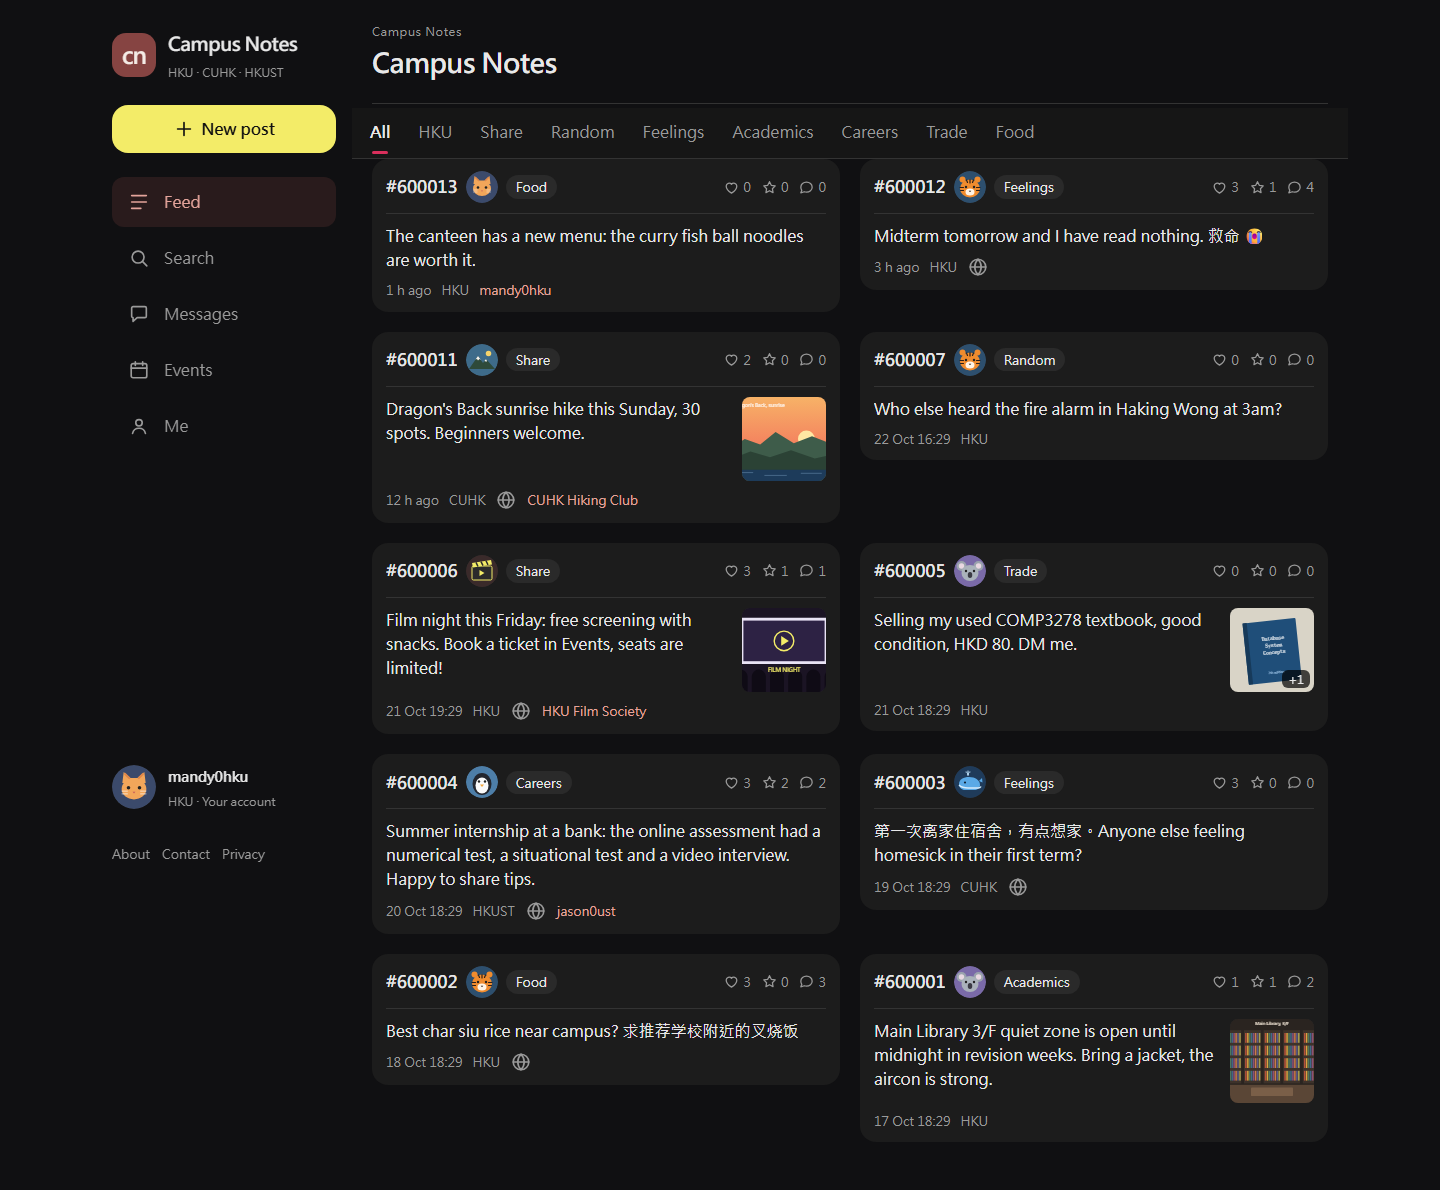
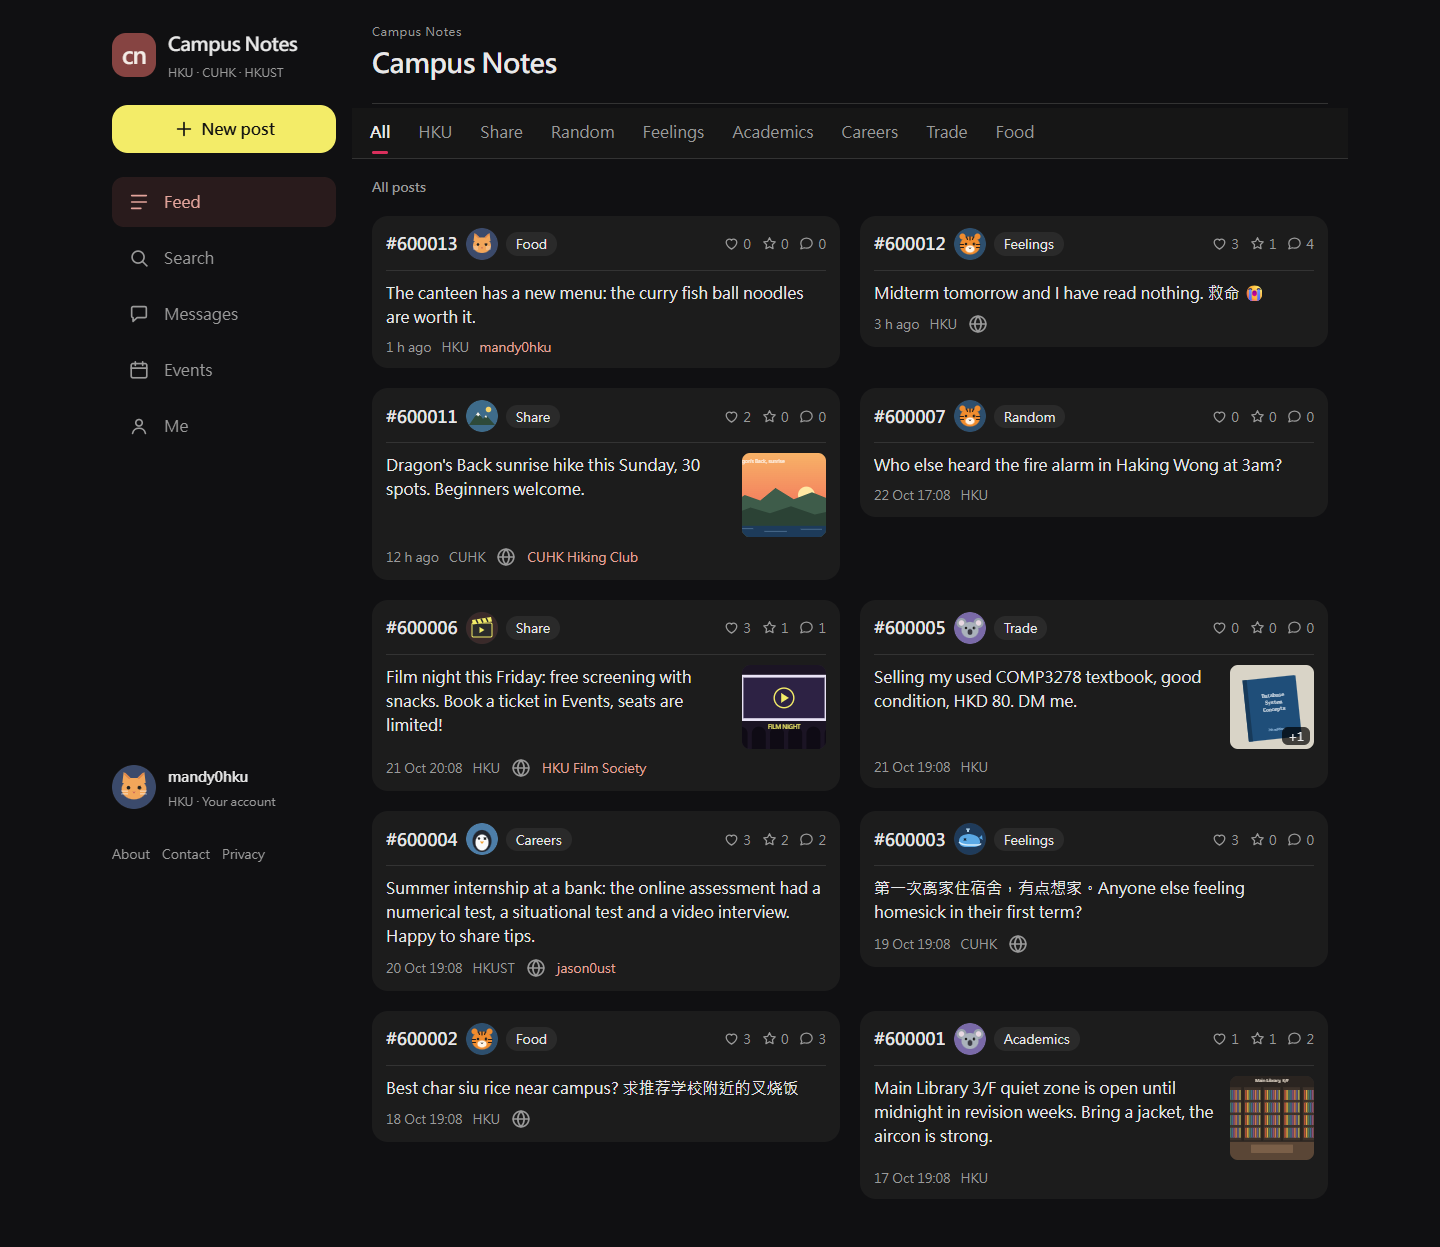
discover: keep active feed filters visible on phones (DS-1)
Refs Michael-wzl/CampusNote#2

diff --git a/modules/discover/tests/browser-checks.js b/modules/discover/tests/browser-checks.js
@@ -48,6 +48,19 @@ module.exports = async function checkFeedBrowser(browser, { baseURL, screenshotD
             assert.equal(await page.locator('.desktop-sidebar').isVisible(), width >= 1024);
             assert.equal(await page.locator('.tabbar').isVisible(), width < 1024);
             assert.equal(await page.locator('.discover-feed [aria-current=page]').count(), 1);
+            if (javaScriptEnabled) {
+              const selectedVisible = await page
+                .locator('.discover-feed [aria-current=page]')
+                .evaluate((a) => {
+                  const selected = a.getBoundingClientRect();
+                  const strip = a.parentElement.getBoundingClientRect();
+                  return selected.left >= strip.left - 1 && selected.right <= strip.right + 1;
+                });
+              assert.ok(
+                selectedVisible,
+                `${handle} ${width} ${path}: selected filter is off-screen`,
+              );
+            }
             if (path.endsWith('before=1')) {
               assert.equal(
                 await page.locator('.discover-feed .empty p').textContent(),
@@ -71,6 +84,16 @@ module.exports = async function checkFeedBrowser(browser, { baseURL, screenshotD
           // Real links must keep working when JavaScript is disabled.
           await page.getByRole('link', { name: 'Food', exact: true }).click();
           assert.equal(new URL(page.url()).searchParams.get('tab'), 'food');
+          assert.equal(await page.locator('#feed-heading').textContent(), 'Food posts');
+          if (javaScriptEnabled) {
+            assert.ok(
+              await page
+                .locator('.discover-feed .tabs')
+                .evaluate((tabs) => tabs.scrollLeft > 0 || tabs.scrollWidth <= tabs.clientWidth),
+            );
+            assert.equal(await page.evaluate(() => window.scrollY), 0);
+            assert.equal(await page.evaluate(() => document.activeElement.tagName), 'BODY');
+          }
           assert.equal(
             await page.locator('.discover-feed .post-card').count(),
             handle === 'jason0ust' || handle === 'wing0cuhk' ? 1 : 2,

diff --git a/modules/discover/tests/feed.test.js b/modules/discover/tests/feed.test.js
@@ -23,6 +23,7 @@ test('DS-T01 (CP1): All is active, with university/topic links and shared post c
     ['All', 'HKU', 'Share', 'Random', 'Feelings', 'Academics', 'Careers', 'Trade', 'Food'],
   );
   assert.equal(page.$('.discover-feed [aria-current=page]').attr('href'), '/feed?tab=all');
+  assert.equal(page.$('#feed-heading').text(), 'All posts');
   assert.deepEqual(postIds(page), HKU);
   assert.equal(page.$('.load-more').length, 0);
   assert.equal(page.$('.post-card[href="/posts/600011"] .author').text(), 'CUHK Hiking Club');
@@ -41,6 +42,10 @@ test('DS-T02: All respects each viewer university, including Newbie and Admin', 
     assert.equal(page.status, 200, handle);
     assert.deepEqual(postIds(page), ids, handle);
     assert.equal(page.$('.discover-feed a[href="/feed?tab=uni"]').text(), university);
+    assert.equal(
+      (await (await agentAs(handle)).page('/feed?tab=uni')).$('#feed-heading').text(),
+      `${university} posts`,
+    );
   }
 });
 
@@ -60,6 +65,7 @@ test('DS-T03: university and all seven topic filters keep their active link and 
     assert.equal(page.status, 200, tab);
     assert.deepEqual(postIds(page), ids, tab);
     assert.equal(page.$('.discover-feed [aria-current=page]').attr('href'), '/feed?tab=' + tab);
+    assert.equal(page.$('script[src="/m/discover/feed.js"]').length, 1);
   }
   const wing = await agentAs('wing0cuhk');
   assert.deepEqual(postIds(await wing.page('/feed?tab=uni')), [600011, 600008, 600003]);
@@ -88,6 +94,7 @@ test('DS-T04: keyset cursors work; unknown tabs and malformed parameters return 
     assert.deepEqual(postIds(page), HKU, query);
   }
   assert.deepEqual(postIds(await agent.page('/feed?tab=food&before=abc')), [600013, 600002]);
+  assert.equal((await agent.page('/feed?tab=food')).$('#feed-heading').text(), 'Food posts');
   assert.deepEqual(postIds(await agent.page('/feed?tab=food&before=600013')), [600002]);
 });
 

diff --git a/modules/discover/public/feed.js b/modules/discover/public/feed.js
@@ -1,0 +1,12 @@
+// Keep the selected filter visible after navigation without moving focus or the page.
+const feedTabs = document.querySelector('.discover-feed .tabs');
+const selectedFilter = feedTabs?.querySelector('[aria-current="page"]');
+if (selectedFilter) {
+  const selectedBounds = selectedFilter.getBoundingClientRect();
+  const stripBounds = feedTabs.getBoundingClientRect();
+  if (selectedBounds.left < stripBounds.left) {
+    feedTabs.scrollLeft -= stripBounds.left - selectedBounds.left;
+  } else if (selectedBounds.right > stripBounds.right) {
+    feedTabs.scrollLeft += selectedBounds.right - stripBounds.right;
+  }
+}

diff --git a/modules/discover/routes.js b/modules/discover/routes.js
@@ -42,10 +42,13 @@ router.get('/feed', async (req, res) => {
   res.page('discover/feed', {
     title: 'Campus Notes',
     tab: 'feed',
+    scripts: ['/m/discover/feed.js'],
     cards,
     nextUrl,
     emptyText,
     canCompose: selected === 'all',
+    feedHeading:
+      selected === 'all' ? 'All posts' : `${topic?.name_en ?? req.me.universityCode} posts`,
     feedTabs: choices.map((choice) => ({
       label: choice.label,
       href: `/feed?tab=${choice.code}`,

diff --git a/docs/modules/discover/VALIDATION.md b/docs/modules/discover/VALIDATION.md
@@ -18,7 +18,7 @@ Node 24.19.0 and portable Oracle MySQL 8.4.13 on IPv4 loopback port 13378, with 
 
 `modules/discover/tests/browser-checks.js` accepts an existing Playwright browser and `{ baseURL, screenshotDir }`; it adds no application dependency. Run it against a fresh development seed with the existing development login shortcuts enabled.
 
-Chromium 151 on Windows: **160 page layout checks pass** (five personas × four viewport widths × JavaScript on/off × four Feed states). Viewports: 390×844, 768×1024, 1440×900 and 320×720. Personas: Mandy, Wing, Jason, Newbie and Admin.
+Chromium 151 on Windows: **160 page layout checks pass**, including the usability follow-up below (five personas × four viewport widths × JavaScript on/off × four Feed states). Viewports: 390×844, 768×1024, 1440×900 and 320×720. Personas: Mandy, Wing, Jason, Newbie and Admin.
 
 Checks include document overflow, 44 px Feed tab targets, active tab, desktop versus compact navigation, topic empty state, real topic-link navigation with JavaScript disabled, visible keyboard focus and absence of page script errors. Browser checks do not change seed data.
 
@@ -28,7 +28,15 @@ Checks include document overflow, 44 px Feed tab targets, active tab, desktop ve
 
 Screenshots were visually inspected. This is desktop Chromium with viewport emulation, not physical phone, Safari or Firefox evidence.
 
-A separate no-JavaScript workflow published a maximum-length 750-character unbroken post through the real Content form. Feed wrapping passed at 320, 390, 720, 768 and 1440 CSS px. The 720 px check is a narrow-viewport check, not proof of 200% browser zoom; actual 200% zoom remains a manual verification item in the headless environment.
+A separate no-JavaScript workflow published a maximum-length 750-character unbroken post through the real Content form. Feed wrapping passed at 320, 390, 720, 768 and 1440 CSS px.
+
+## Usability review follow-up
+
+A real phone-width topic click exposed an off-screen selected filter: after choosing Food, the new page reset the horizontal tab strip to the left. Food's bounds were x=630.6–694.2 in a 390 px viewport. A module-only deferred script now scrolls that strip just enough to reveal the selection, without moving keyboard focus or vertical page position. A visible list heading identifies the current filter even without JavaScript. The 160-case browser check now asserts selected-filter visibility and the no-focus/no-page-scroll behavior. Updated screenshots reflect this change.
+
+Native Chromium **200% page zoom passes** for All, university, Food and the Food empty state. The test selected 200% in Chrome Settings → Appearance → Page zoom inside a dedicated temporary profile. At a fixed 1440 px outer window, the CSS viewport changed from 1418 px / DPR 1 to 709 px / DPR 2. All four pages had document width equal to 709 px, usable compact navigation and no horizontal overflow. This is browser page zoom, not a substituted narrow viewport or CSS transform. The profile's zoom was reset afterwards.
+
+Six real phone-width Load more → post → Back workflows pass: All, university and Food, each with JavaScript on and off. With 25 disposable anonymous HKU posts, each first page showed 20 cards; second pages showed 15, 12 and 7 respectively, with no repeated cards or further Load more link. Tab and cursor survived navigation and Back. CUHK/HKUST university feeds excluded those HKU fixtures, and the empty-All Write a post link reached the real compose page. Fixtures existed only in the separate development database.
 
 ## Pending module acceptance
 

diff --git a/docs/modules/discover/USER_GUIDE.md b/docs/modules/discover/USER_GUIDE.md
@@ -24,6 +24,8 @@ Each card shows the post's number (such as #600012), its topic, the time, the au
 
 The feed shows 20 posts at a time. Tap **Load more** at the bottom for the next 20.
 
+The heading names the list you are viewing, such as **Food posts**. On a phone the topic strip scrolls sideways; with JavaScript enabled, the selected topic stays in view automatically. All filters and Load more also work without JavaScript.
+
 **Why you do not see some posts:** a post marked "My university" is shown only to students of the author's university. A student at CUHK never sees an HKU-only post, in any tab, in search or on a user page. Deleted posts and posts hidden by a moderator disappear everywhere.
 
 [Phone Feed (390 px)](img/feed-390.png) · [Tablet Feed (768 px)](img/feed-768.png) · [Desktop Feed (1440 px)](img/feed-1440.png)
